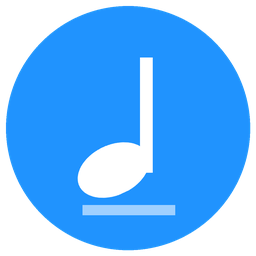
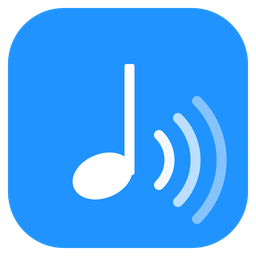
Ícone novo: semínima emitindo o pulso
Mesmo desenho (empacotar/icone.svg) no navegador, no menu do Linux, no
instalador do Windows (.ico) e no app Android 1.2 (ícone adaptativo dentro
da área segura); release passa a citar o APK do Android.

diff --git a/android/app/src/main/assets/inicio.html b/android/app/src/main/assets/inicio.html
@@ -18,7 +18,7 @@
         padding: 24px;
     }
     .caixa { width: 100%; max-width: 420px; display: grid; gap: 16px; text-align: center; }
-    .logo { width: 72px; height: 72px; margin: 0 auto; border-radius: 50%; background: #2093fe; display: flex; align-items: center; justify-content: center; font-size: 40px; color: #fff; }
+    .logo { width: 88px; height: 88px; margin: 0 auto; display: block; }
     h1 { font-size: 22px; font-weight: 600; }
     #status { color: #a8a8aa; font-size: 15px; min-height: 22px; }
     #aviso { background: #3d3524; border: 1px solid #6b5626; color: #f0b429; border-radius: 3px; padding: 8px; font-size: 14px; }
@@ -36,7 +36,15 @@
 </head>
 <body>
 <div class="caixa">
-    <div class="logo">♩</div>
+    <svg class="logo" viewBox="0 0 512 512" aria-hidden="true">
+        <rect x="16" y="16" width="480" height="480" rx="112" fill="#2093FE"/>
+        <g fill="#fff"><ellipse cx="0" cy="0" rx="62" ry="44" transform="translate(205 352) rotate(-22)"/><rect x="249" y="128" width="20" height="222" rx="4"/></g>
+        <g fill="none" stroke="#fff" stroke-linecap="round" stroke-width="20">
+            <path d="M318 270 a70 70 0 0 1 0 100" opacity="0.95"/>
+            <path d="M356 236 a118 118 0 0 1 0 168" opacity="0.7"/>
+            <path d="M394 202 a166 166 0 0 1 0 236" opacity="0.45"/>
+        </g>
+    </svg>
     <h1>MuseControl</h1>
     <p id="aviso" class="oculto"></p>
     <p id="status">Procurando o computador…</p>
